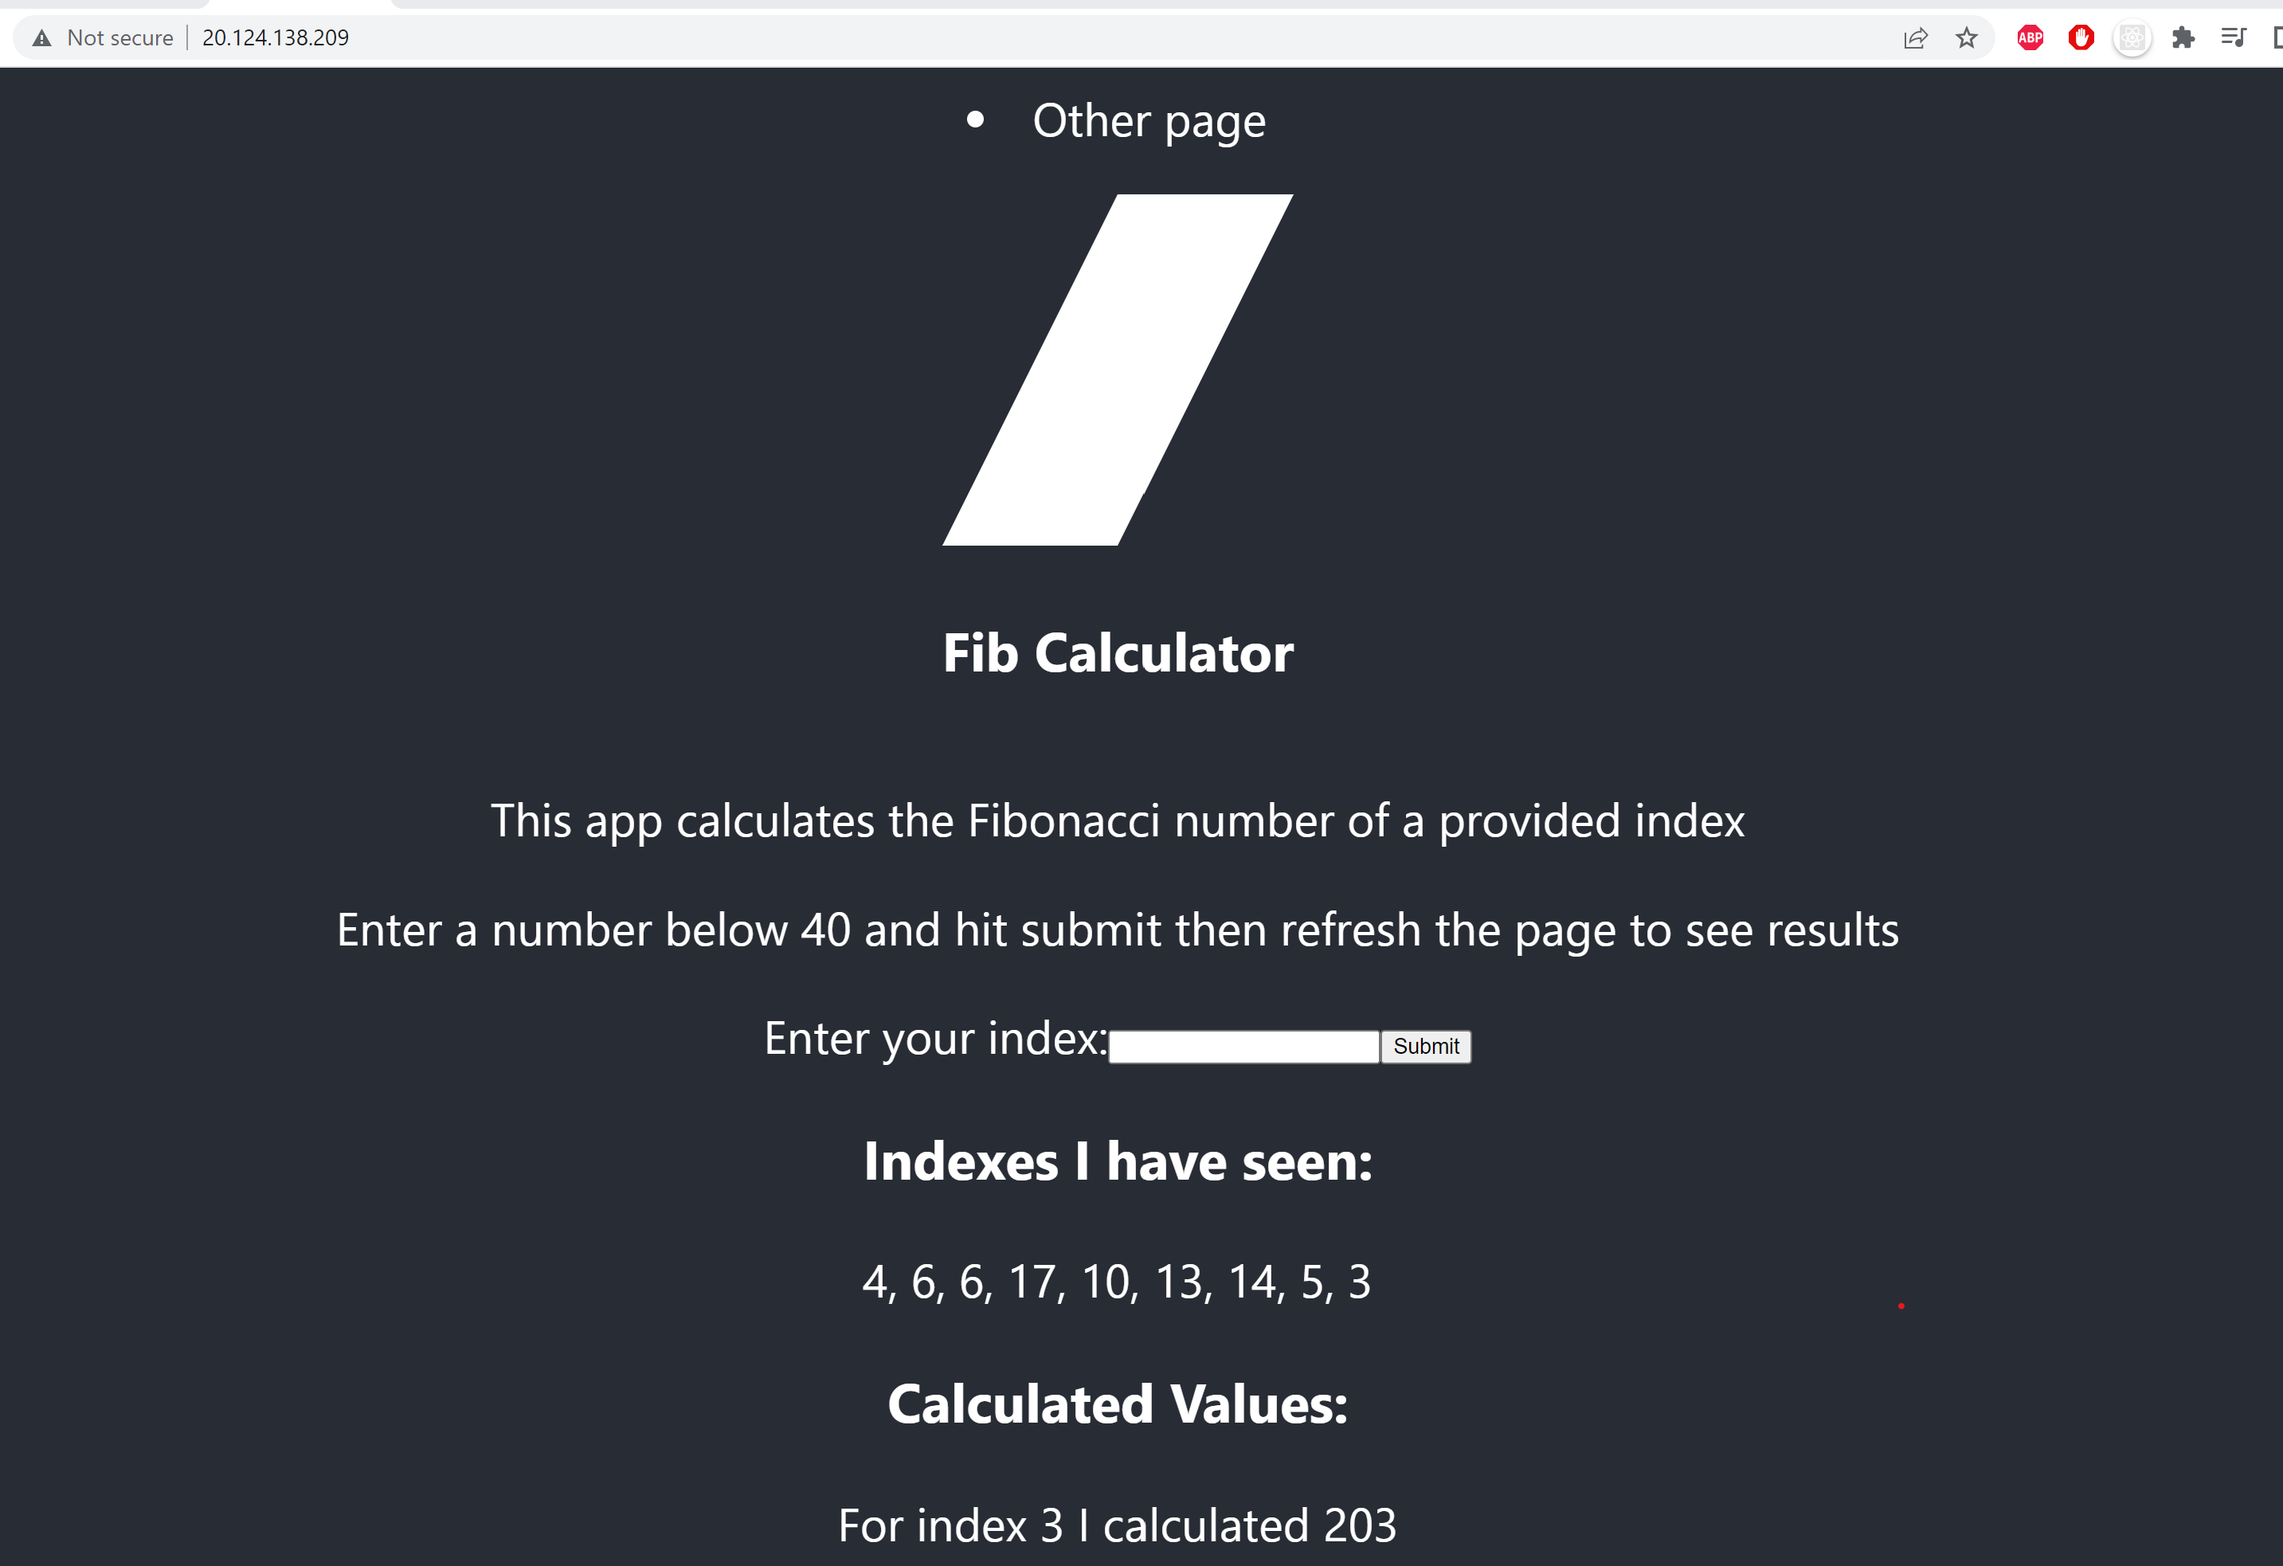
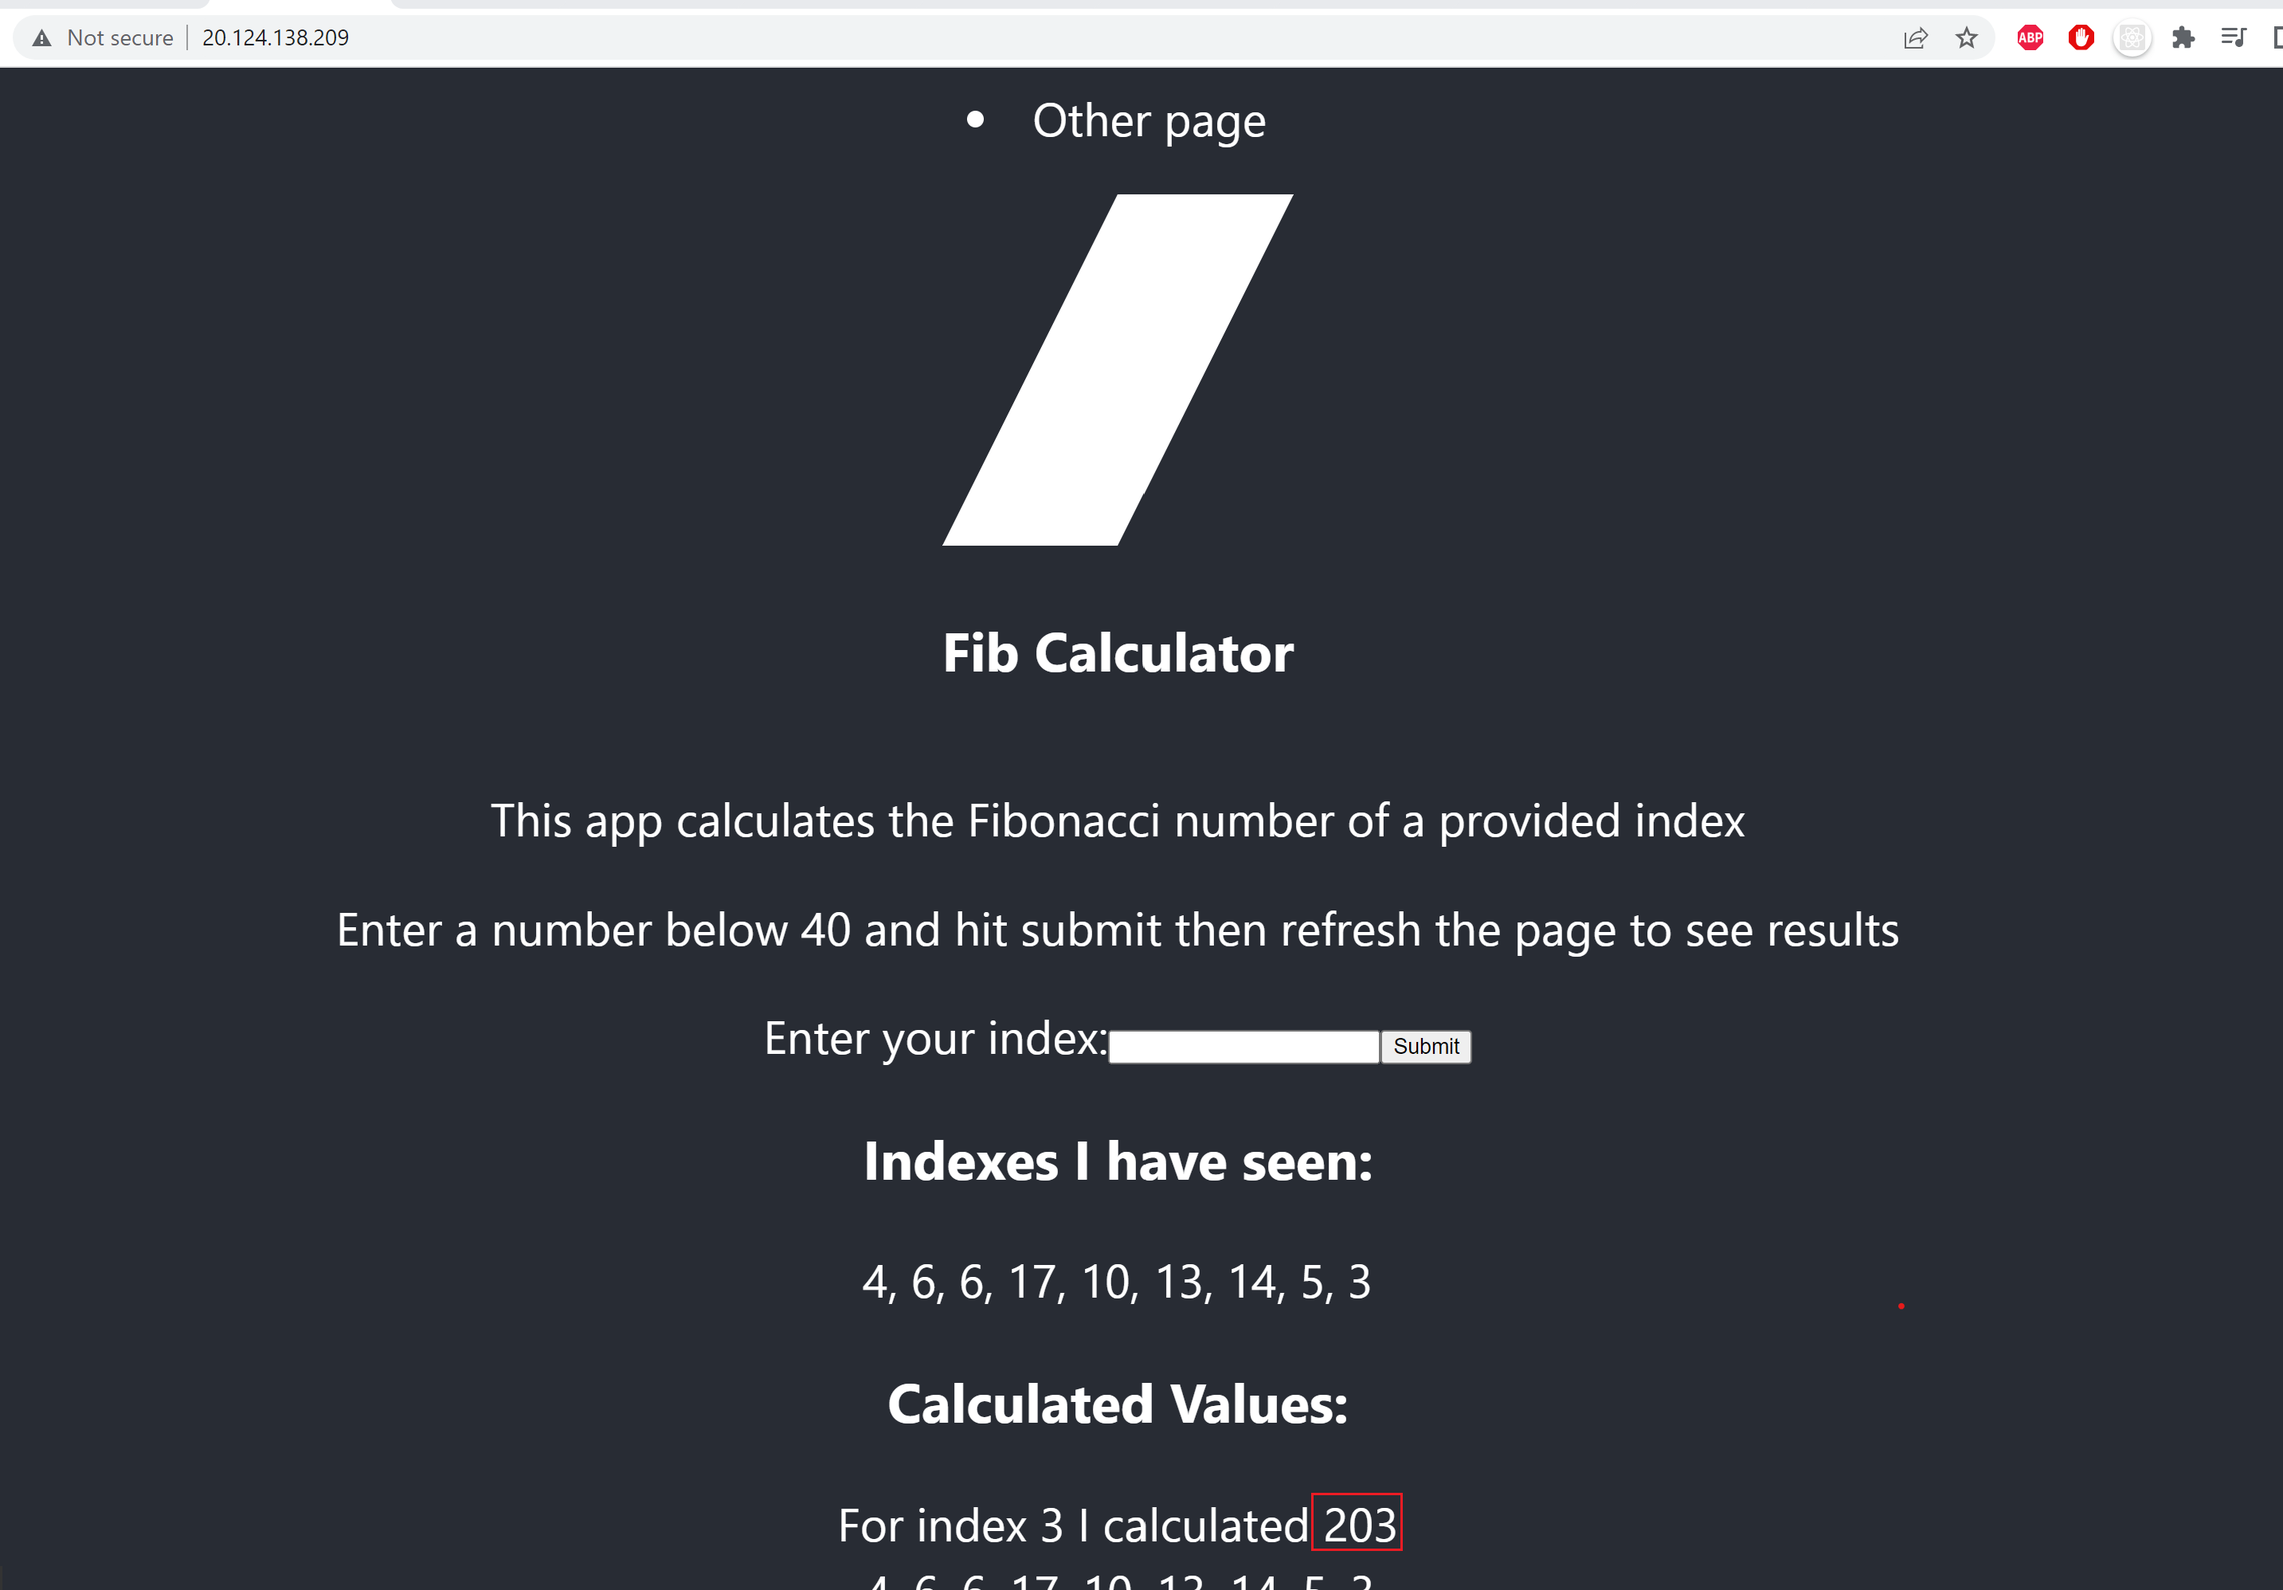
add bridge to k8s instructions intro bug in fib calculation

diff --git a/README.md b/README.md
@@ -308,7 +308,7 @@ This exercise shows one of the advantages of containers and kubernetes. You can 
 
 ## Testing & Debugging individual microservices using Bridge to Kubernetes
 Bridge to kubernetes is an amazing tool that allows developers debug and test their code by running their Microservice locally on their computer and having it connect to other microservices running in their kubernetes cluster. This way, they can test changes they make to their local microservice against the entire application already running on kubernetes. For more information about this, check out [this video](https://www.youtube.com/watch?v=yl14NJcUMGU).
-For Bridge to work, you need to be able to run the application locally. We begin by installing the packages required to run the simple express app locally.
+For Bridge to work, you need to be able to run the application locally. We begin by installing the packages required to run the worker node express microservice locally.
 
 1. CD to the directory that has your worker server code
     ```bash
@@ -328,16 +328,16 @@ For Bridge to work, you need to be able to run the application locally. We begin
     ![configuration successful](./media/bridge-config-successful.png)
 1. Click on the "Connect to the cluster" button that pops up at the top of the screen and wait for the connection to be established
 1. When you see the pop-up, click on "Continue" and then "Yes" to provide Bridge to kubernetes the required permission
-1. Once the connection is complete, take not of the host address of the redis-cluster-ip-service. You might need it if you have service discovery issues
+1. Once the connection is complete, take note of the host address of the redis-cluster-ip-service. You might need it if you have service discovery issues
     ![host address of cluster ip service](./media/host-address-redis-service.png)
-1. you can open the ./fib-calculator/worker/index.js file, put a break point on the last line of the script and click on the debug tab to the left
-1. Click on the green "Play" button next to Launch Program on the top left side of the screen to begin debugging
+1. You can open the ./fib-calculator/worker/index.js file, put a break point on the last line of the script and click on the debug tab to the left
+1. Click on the green Play button next to "Launch Program" at the top left side of the screen to begin debugging
 1. Click on the "Continue" button of the debugger to complete the run
-1. If you head to the DEBUG CONSOLE and see an error about connecting to redis, it means you are having service discovery issue.
+1. If you head to the "DEBUG CONSOLE" tab and see an error about connecting to redis, it means you are having service discovery issues.
 1. OPTIONAL To fix redis connection error: In your ./fib-calculator/worker/index.js file, replace ${keys.redisHost} in the redis connection URL with the host address of the redis-cluster-ip-service noted earlier
     ![use host address](./media/used-host-address.png)
 1. Run the debugger and try calculating the fibonacci number for 3 using the web front end on the browser and you will see that the result is not correct. We need to fix this bug.
-    ![incorrect fib calc](./media/used-host-address.png)
+    ![incorrect fib calc](./media/incorrect-fib-calc.png)
 1. Head to the ./fib-calculator/worker/fib.js file and fix the fib function definition by removing the "+ 100" at the end of the second return statement then save it
 1. Head back to the index file and run the debugger again 
 1. Try calculating the fibonacci number for 3 again and you will see that the result is now correct. Try this for other values to be sure.
